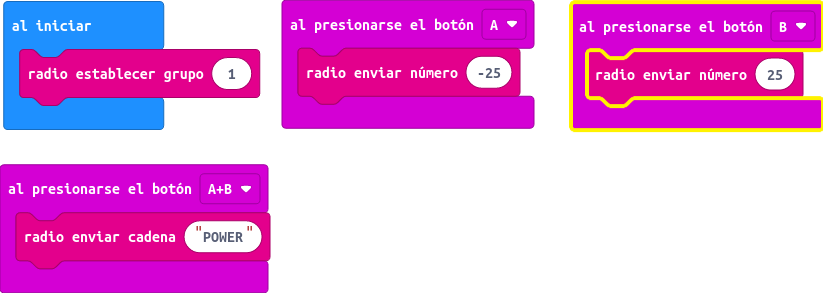
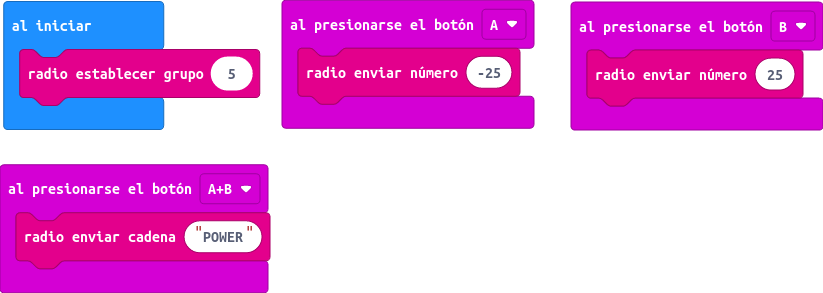
Actualizar main.blocks, main.ts

diff --git a/main.ts b/main.ts
@@ -7,4 +7,4 @@ input.onButtonPressed(Button.AB, function () {
 input.onButtonPressed(Button.B, function () {
     radio.sendNumber(25)
 })
-radio.setGroup(1)
+radio.setGroup(5)
